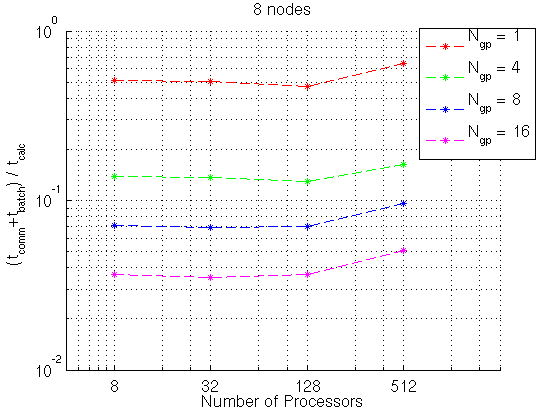
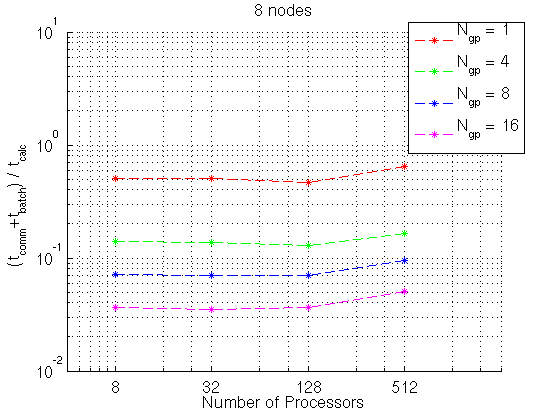
OCD

diff --git a/result513/analyzeResults_new.m b/result513/analyzeResults_new.m
@@ -87,6 +87,7 @@ for i = 1:length(nodes)
     set(gca,'Xtick',[data1(:,1)])
     set(gca,'Color','White')
     xlim([data1(1,1)*.5,data1(end,1)*4])
+    ylim([1e-02,1e01])
     grid on
     set(gca,'FontSize',12)
     xl = get(gca,'xlabel');
@@ -114,6 +115,7 @@ for i = 1:length(nodes)
     set(gca,'Xtick',[data1(:,1)])
     set(gca,'Color','White')
     xlim([data1(1,1)*.5,data1(end,1)*4])
+    ylim([1e-02,1e01])
     grid on
     set(gca,'FontSize',12)
     xl = get(gca,'xlabel');
@@ -137,6 +139,7 @@ for i = 1:length(nodes)
     ylabel(['(t_{comm}+t_{batch}) / t_{calc} '])
     title([num2str(node),' nodes'])
     xlim([data1(1,1)*.5,data1(end,1)*4])
+    ylim([1e-02,1e01])
     set(gca,'xscale','log')
     set(gca,'yscale','log')
     set(gca,'Xtick',[data1(:,1)])
